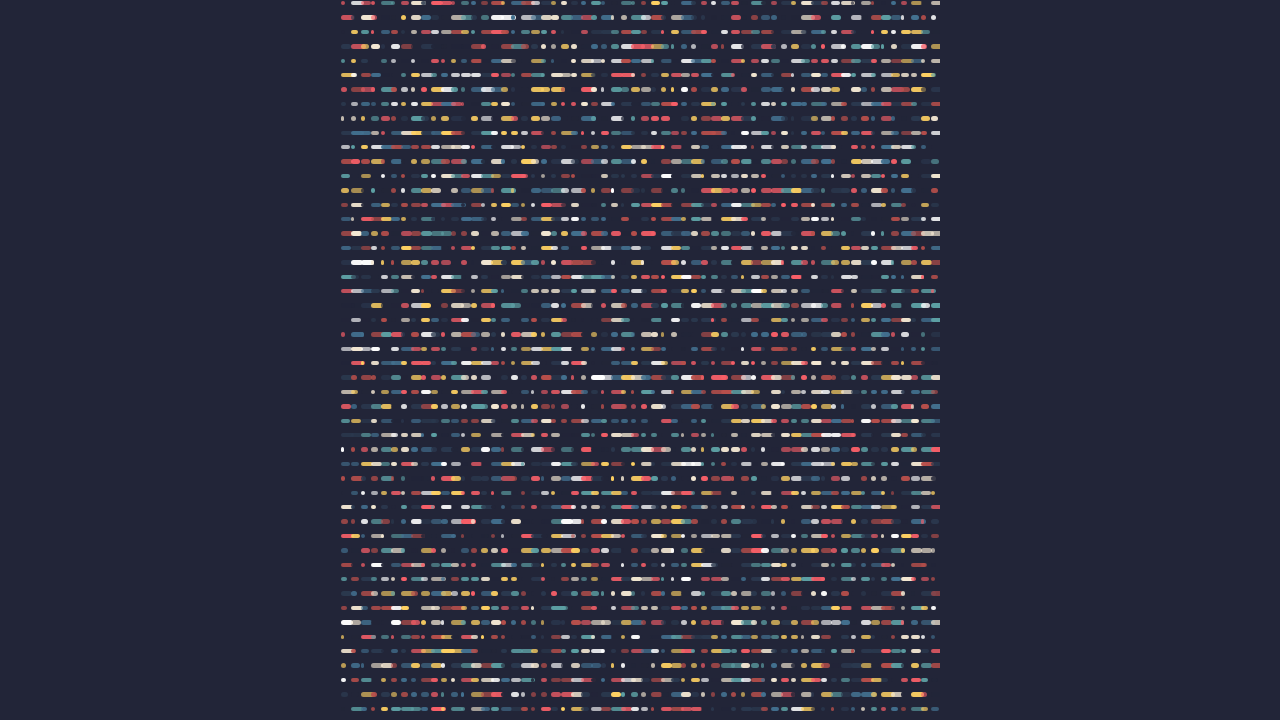
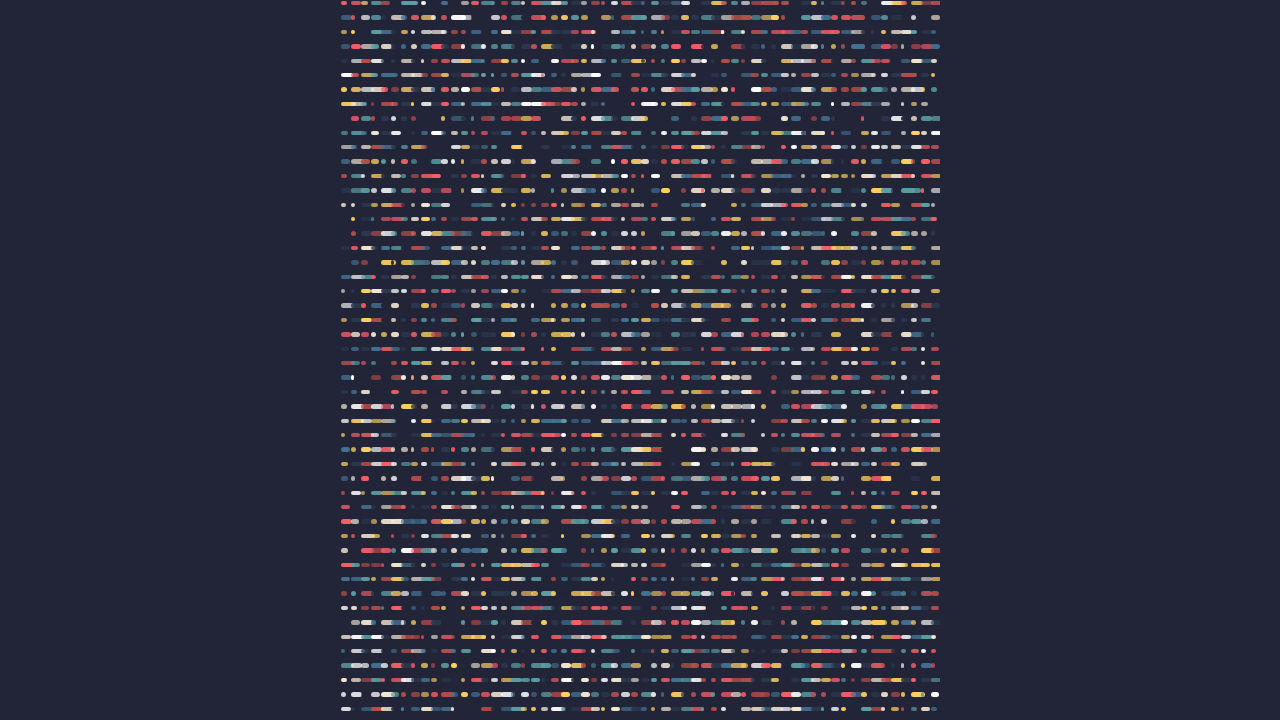
feat: change @flow to return 2D vector
- Modifies `@flow` logic to evaluate the resulting angle into `x` and `y` vector components and returns them as a space-separated string (e.g. `vx vy`), enabling usage with `translate()` combined with `@n()`/`@ny()`.
- Added logic to convert `sharp` increments based on radians/turns.
- Updated documentation and visual tests to reflect the new API design.
- Re-ran the build script.

Changed region(s): [[0.25, 0.0, 0.75, 1.0]]

diff --git a/src/function.js b/src/function.js
@@ -547,14 +547,29 @@ const Expose = add_alias({
       let value = fn(from, to);
       let angle = parseFloat(value) || 0;
       let unit = String(value).replace(/[0-9.-]/g, '');
-      if (!unit) unit = 'deg';
 
       if (sharp) {
         let increment = 360 / sharp;
+        if (unit === 'rad') {
+          increment = (Math.PI * 2) / sharp;
+        } else if (unit === 'turn') {
+          increment = 1 / sharp;
+        }
         angle = Math.round(angle / increment) * increment;
       }
 
-      return push_stack(context, 'last_rand', angle + unit);
+      let rad = angle;
+      if (!unit || unit === 'deg') {
+        rad = angle * (Math.PI / 180);
+      } else if (unit === 'turn') {
+        rad = angle * (Math.PI * 2);
+      }
+
+      let vx = Math.cos(rad);
+      let vy = Math.sin(rad);
+
+      // Return vector component to be used inside e.g., translate(calc(x * ...), calc(y * ...))
+      return push_stack(context, 'last_rand', `${vx} ${vy}`);
     };
   },
 

diff --git a/test_blank.js b/test_blank.js
@@ -8,13 +8,12 @@ const __dirname = path.dirname(__filename);
 (async () => {
   const browser = await chromium.launch();
   const page = await browser.newPage();
-  page.on('console', msg => console.log('PAGE LOG:', msg.text()));
-  page.on('pageerror', error => console.log('PAGE ERROR:', error.message));
 
-  const file = 'tests_visual/sample_flow.html';
+  const file = 'test_eval.html';
   const filePath = `file://${path.resolve(__dirname, file)}`;
   console.log(`Rendering ${filePath}...`);
   await page.goto(filePath);
   await page.waitForTimeout(2000);
+  await page.screenshot({ path: 'test_eval.png' });
   await browser.close();
 })();

diff --git a/tests_visual/sample_flow.html b/tests_visual/sample_flow.html
@@ -19,8 +19,9 @@
     /* Random colors from a palette */
     background: @p(#f75f68, #fed163, #437190, #5da0a4, #f4e8d3, #fff, #b74f4b, #2b394f, #222538);
 
-    /* Using @flow to determine rotation and simulating a flow field */
-    transform: rotate(@flow(scale=2, frequency=1.5, sharp=0)) translateX(20%);
+    /* Using @flow to get a 2D vector for directional translation simulating a flow field */
+    --f: @flow(scale=2, frequency=1.5, sharp=0);
+    transform: translate(calc(50px * @n(var(--f))), calc(50px * @ny(var(--f))));
 
     /* Create dashes effect */
     border-radius: 20px;

diff --git a/tests_visual/sample_patterns.html b/tests_visual/sample_patterns.html
@@ -25,7 +25,8 @@
       ( display: none; ),
       (
         background: @p(#f00, #0f0, #00f, #ff0);
-        transform: rotate(@flow(scale=5, sharp=8));
+        --f: @flow(scale=5, sharp=8);
+        transform: translate(calc(20px * @n(var(--f))), calc(20px * @ny(var(--f))));
         clip-path: polygon(50% 0%, 100% 50%, 50% 100%, 0% 50%);
       )
     )

diff --git a/README.md b/README.md
@@ -23,18 +23,22 @@ It facilitates the creation of graphic patterns, visual backgrounds, handcrafted
 
 ## New Features
 ### @flow
-The `@flow` function generates flow field angles based on 2D Perlin noise. This is extremely useful for generating organic-looking curved paths or directional distributions over your grid.
+The `@flow` function generates flow field 2D vectors (`vx vy`) based on 2D Perlin noise. This is extremely useful for generating organic-looking curved paths or directional distributions over your grid. You can parse the vector components using `@n()` and `@ny()`.
 
 **Parameters:**
-- `from`, `to` - Defines the range of output rotation. Defaults to `0` and `360` (deg).
+- `from`, `to` - Defines the range of the internal noise calculation. Defaults to `0` and `360` (deg).
 - `scale` - Controls amplitude mapping (default `1`).
 - `frequency` - Specifies the frequency of the noise field (default `1`).
 - `octave` - Adds detail layers (default `1`).
-- `sharp` - Automatically snaps rotation angles into fixed increments (e.g. `sharp: 4` creates `90` degree rigid turns like Fidenza style).
+- `sharp` - Automatically snaps internal angles into fixed increments before resolving the vector (e.g. `sharp=4` creates `90` degree rigid turns like Fidenza style).
 
 **Example:**
 ```css
-transform: rotate(@flow(scale=2, sharp=8));
+--f: @flow(scale=2, sharp=8);
+transform: translate(
+  calc(50px * @n(var(--f))),
+  calc(50px * @ny(var(--f)))
+);
 ```
 
 ### @collide
